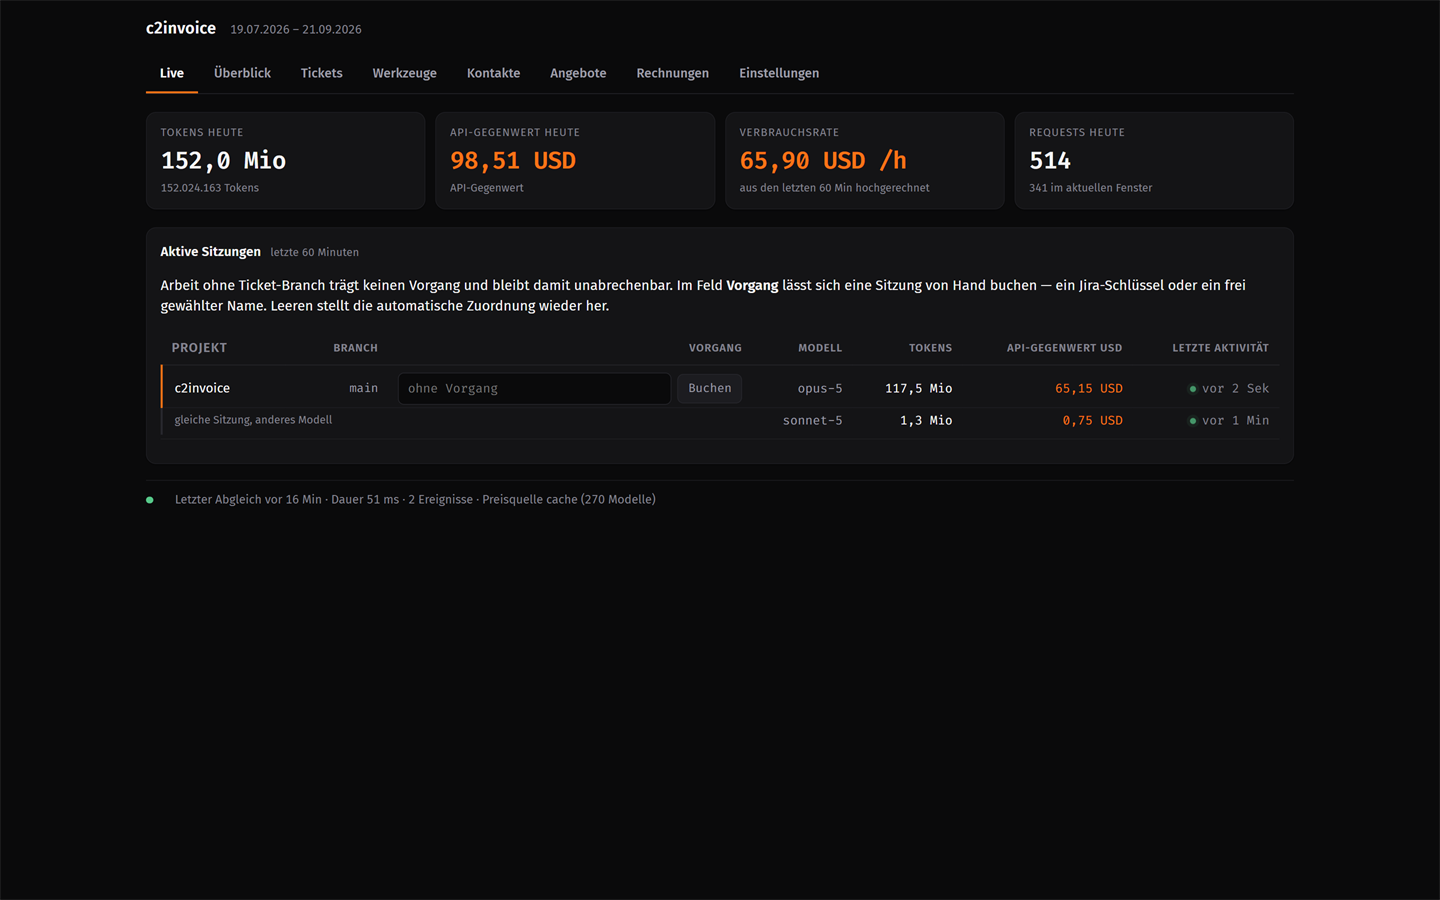
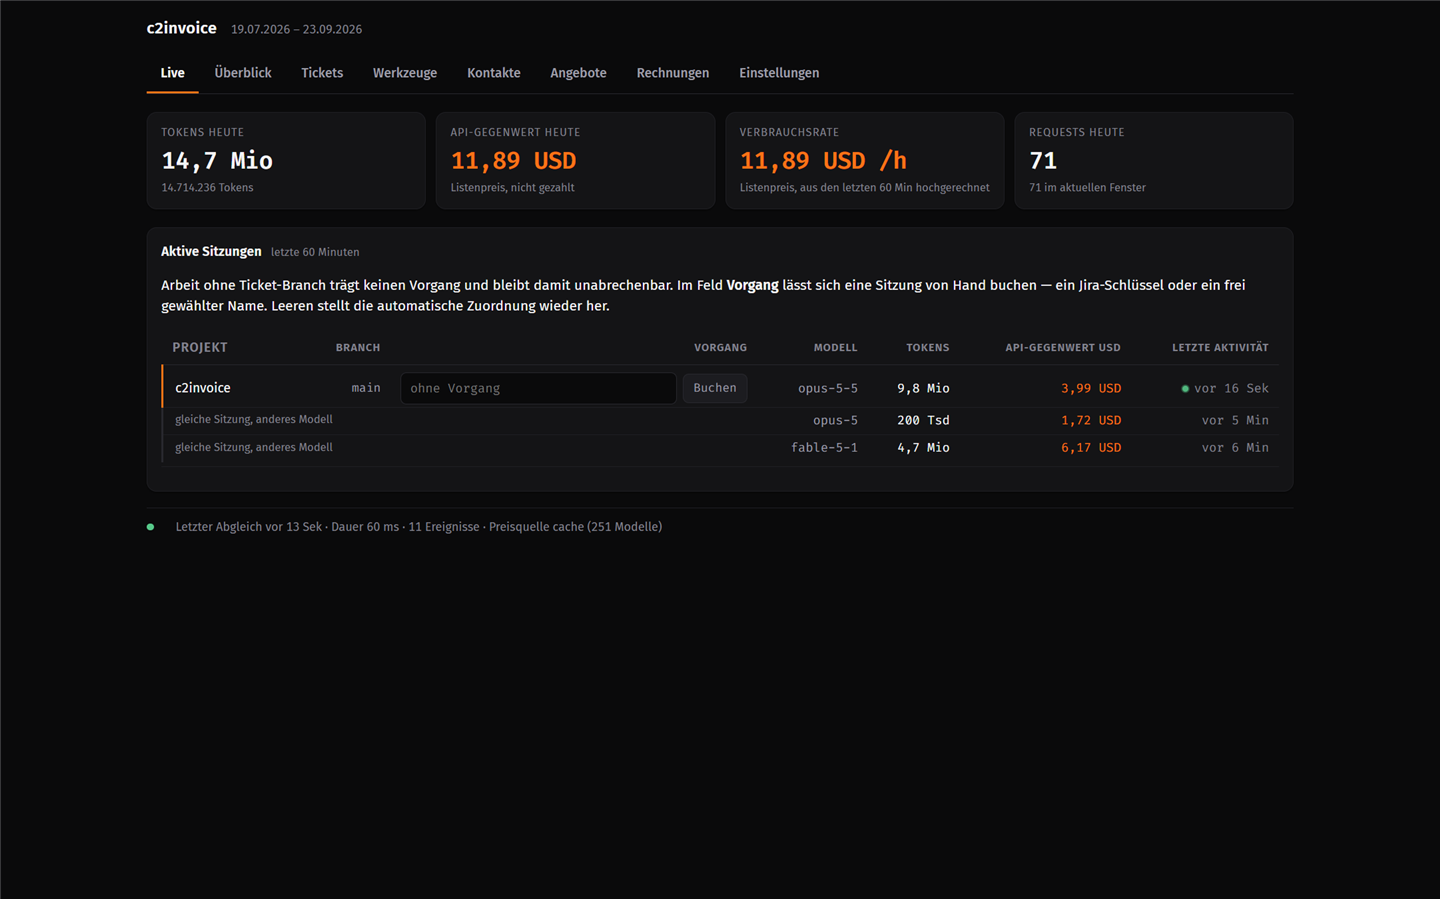
feat: subscription share next to the API equivalent
Readers took the API equivalent for actual cost, the burn rate for an
hourly bill and the tools tab for extra spend. None of these figures
carried its reference in the label.

- Overview shows the subscription share actually paid in the period
- List-price figures are labelled "list price, not paid"
- Tools tab names the total all its bars are shares of
- README: the 82 % are gaps that never reach the invoice, not waiting
- Screenshots retaken with the new labels

diff --git a/public/index.html b/public/index.html
@@ -1028,7 +1028,7 @@
       <div class="kpi usd">
         <div class="label" data-i18n>API-Gegenwert heute</div>
         <div class="value" id="l-kosten">–</div>
-        <div class="hint" data-i18n>API-Gegenwert</div>
+        <div class="hint" data-i18n>Listenpreis, nicht gezahlt</div>
       </div>
       <div class="kpi usd">
         <div class="label" data-i18n>Verbrauchsrate</div>
@@ -1072,7 +1072,14 @@
       <div class="kpi usd">
         <div class="label" data-i18n>API-Gegenwert</div>
         <div class="value" id="s-kosten">–</div>
-        <div class="hint" data-i18n>so viel hätte die API gekostet</div>
+        <div class="hint" data-i18n>Listenpreis, nicht gezahlt</div>
+      </div>
+      <!-- Die echte Gegenzahl. Ohne sie liest sich der API-Gegenwert wie eine
+           Rechnung — genau so wurde er von Aussenstehenden gelesen. -->
+      <div class="kpi">
+        <div class="label" data-i18n>Abo-Anteil im Zeitraum</div>
+        <div class="value" id="s-abo">–</div>
+        <div class="hint" id="s-abo-hint"></div>
       </div>
       <div class="kpi">
         <div class="label" data-i18n>Aktive Stunden</div>
@@ -1195,6 +1202,8 @@
       <p class="w-bruch-text">
         <span class="w-marke" data-i18n>ändert keine Abrechnung</span>
         <span data-i18n>Andere Sicht auf Tokens, die bereits in den Projekt- und Vorgangszahlen stecken — dient nur der Frage, was wie intensiv genutzt wird.</span>
+        <!-- Bezugsgroesse: ohne sie lesen sich die Balken als zusaetzliche Kosten. -->
+        <span id="h-bezug"></span>
       </p>
     </div>
 
@@ -1568,6 +1577,9 @@ EN["Nach Werkzeug"] = "By tool";
 EN["Nach MCP-Server"] = "By MCP server";
 EN["Verteilung nach Modell"] = "Distribution by model";
 EN["Woher die Requests kamen"] = "Where the requests came from";
+EN["Listenpreis, nicht gezahlt"] = "list price, not paid";
+EN["Abo-Anteil im Zeitraum"] = "Subscription share in period";
+EN["Abo-Preis unter Einstellungen eintragen"] = "enter your plan price under Settings";
 EN["welches Werkzeug den Verbrauch erzeugt hat"] = "which tool caused the usage";
 EN["dieselbe Summe, aufgeteilt nach Modell"] = "the same total, split by model";
 EN["dieselbe Summe, aufgeteilt auf die begleiteten Projekte"] = "the same total, split across the projects it accompanied";
@@ -2611,8 +2623,8 @@ function zeichneLive() {
     setz('l-kosten', usd(t.cost_usd));
     setz('l-burn', usd(d.burn_usd_per_hour) + ' /h');
     setz('l-burn-hint', istDE()
-      ? 'aus den letzten ' + num(d.window_minutes) + ' Min hochgerechnet'
-      : 'extrapolated from the last ' + num(d.window_minutes) + ' min');
+      ? 'Listenpreis, aus den letzten ' + num(d.window_minutes) + ' Min hochgerechnet'
+      : 'list price, extrapolated from the last ' + num(d.window_minutes) + ' min');
     setz('l-requests', num(t.requests));
     const w = d.window || {};
     setz('l-window-hint', num(w.requests) + uebersetze(' im aktuellen Fenster'));
@@ -3056,6 +3068,10 @@ function zeichneHerkunft() {
   const erkl = document.getElementById('h-erklaerung');
   if (!h || !mcpZiel) return;
 
+  document.getElementById('h-bezug').textContent = istDE()
+    ? 'Alle Balken sind Anteile an ' + usd(h.gesamt.cost_usd) + ' API-Gegenwert, keine Kosten obendrauf.'
+    : 'Every bar is a share of ' + usd(h.gesamt.cost_usd) + ' API equivalent, not cost on top.';
+
   const anteil = (t) => h.gesamt.total_tokens
     ? nf1.format((t / h.gesamt.total_tokens) * 100) + ' %' : '–';
 
@@ -3310,6 +3326,19 @@ function zeichneUeberblick() {
   setzZahl('s-tokens', s.total_tokens, kurz);
   setz('s-tokens-hint', num(s.total_tokens) + ' Tokens');
   setzZahl('s-kosten', s.cost_usd, usd);
+
+  // Ohne Abopreis bleibt die Kachel leer statt 0 zu zeigen — eine Null saehe
+  // aus wie "kostet nichts".
+  const aboPreis = Number(d.config && d.config.aboPreisMonat) || 0;
+  if (aboPreis > 0) {
+    setzZahl('s-abo', d.abo_kosten, abo);
+    setz('s-abo-hint', istDE()
+      ? 'tatsächlich gezahlt, anteilig aus ' + abo(aboPreis) + ' je Monat'
+      : 'actually paid, share of ' + abo(aboPreis) + ' per month');
+  } else {
+    setz('s-abo', '–');
+    setz('s-abo-hint', uebersetze('Abo-Preis unter Einstellungen eintragen'));
+  }
 
   // Nur die Projektarbeit, nicht der Werkzeugbetrieb. Die Gesamtzeit aus
   // `summary` enthaelt auch die Hintergrundsitzungen der Werkzeuge — die

diff --git a/test/selfcheck.js b/test/selfcheck.js
@@ -398,6 +398,45 @@ function testAboWaehrung() {
   }
 }
 
+// Die Abo-Kachel im Ueberblick ist die echte Gegenzahl zum API-Gegenwert.
+// Zwei Fehler waeren still: volle Monate ergaeben nicht genau den Abopreis,
+// oder ein angeschnittener Monat zaehlte trotzdem voll.
+function testAboKostenZeitraum() {
+  const config = require('../config.json');
+  const merk = config.aboPreisMonat;
+  const db = dbmod.open(':memory:');
+  openDbs.push(db);
+  const ins = db.prepare(`
+    INSERT INTO events (request_id, ts, session_id, project, branch, ticket, model,
+      input_tokens, output_tokens, cache_w_5m, cache_w_1h, cache_read,
+      web_search, cost_usd, is_sidechain, day)
+    VALUES (?,?,?,?,?,?,?,?,?,?,?,?,?,?,?,?)
+  `);
+  const ev = (id, tag, usd) => ins.run(id, tag + 'T10:00:00.000Z', 's1', 'Beispiel - App',
+    'main', null, 'claude-opus-5', 1, 1, 0, 0, 0, 0, usd, 0, tag);
+  ev('a1', '2026-07-05', 30);
+  ev('a2', '2026-07-20', 10);
+  ev('b1', '2026-08-03', 25);
+  ev('b2', '2026-08-25', 75);
+
+  try {
+    config.aboPreisMonat = 100;
+    const voll = metrics.aboKosten(db);
+    assert.ok(Math.abs(voll - 200) < 0.001,
+      'zwei volle Monate muessen genau zweimal den Abopreis ergeben: ' + voll);
+
+    // Ab 10.07.: Juli nur noch 10 von 40 USD = 25, August voll = 100.
+    const teil = metrics.aboKosten(db, { from: '2026-07-10' });
+    assert.ok(Math.abs(teil - 125) < 0.001,
+      'angeschnittener Monat muss anteilig zaehlen: ' + teil);
+
+    config.aboPreisMonat = 0;
+    assert.strictEqual(metrics.aboKosten(db), 0, 'ohne Abopreis keine Abokosten');
+  } finally {
+    config.aboPreisMonat = merk;
+  }
+}
+
 function testOverhead() {
   const config = require('../config.json');
   assert.ok(Array.isArray(config.overheadProjekte) && config.overheadProjekte.length > 0,
@@ -2627,6 +2666,7 @@ async function main() {
   test('Mehrwert rechnet Dollar in Euro um, bevor addiert wird', testMehrwert);
   test('Marge zieht die eigene Arbeitszeit ab, Zielmarge nur als Vergleich', testMargeZiehtEigeneZeitAb);
   test('Abo in Euro wird nicht durch den Dollarkurs gedreht', testAboWaehrung);
+  test('Abokosten im Zeitraum: volle Monate voll, angeschnittene anteilig', testAboKostenZeitraum);
   test('Werkzeug-Overhead wird von Kundenprojekten getrennt', testOverhead);
   test('Werkzeuge werden dem parallel bearbeiteten Projekt zugeordnet', testWerkzeugZuordnung);
   test('Ticket rechnet eigene Arbeit plus begleitende Werkzeuge ab', testTicketGesamtsumme);

diff --git a/metrics.js b/metrics.js
@@ -612,6 +612,15 @@ function aboAnteil(db, costUsd, month) {
   return (costUsd / total) * config.aboPreisMonat;
 }
 
+// Was das Abo im gewaehlten Ausschnitt tatsaechlich gekostet hat — die echte
+// Gegenzahl zum API-Gegenwert, der nur ein Listenpreis ist. Je Monat der
+// Anteil des Ausschnitts am Monatsverbrauch, mal Abopreis: volle Monate ergeben
+// genau den Abopreis, angeschnittene anteilig. Dieselbe Formel wie je Vorgang,
+// deshalb ueber aboAnteil statt eigener Rechnung. Waehrung: aboWaehrung.
+function aboKosten(db, opts = {}) {
+  return byMonth(db, opts).reduce((s, r) => s + aboAnteil(db, r.cost_usd, r.day), 0);
+}
+
 // Der Anteil steht in der Waehrung des Abos, nicht zwangslaeufig in Dollar:
 // Anthropic stellt aus Irland in Euro. Wird ein Euro-Betrag trotzdem durch den
 // Dollarkurs gedreht, sind die Abokosten in der Marge um den Kursfaktor zu
@@ -1090,6 +1099,7 @@ module.exports = {
   mehrwert,
   live,
   aboAnteil,
+  aboKosten,
   filterClause,
   lokalZuordnung, lokalJeGruppe, lokalStundenJeGruppe, lokalBetrag,
 };

diff --git a/server.js b/server.js
@@ -521,6 +521,9 @@ function handle(req, res) {
         // (Jira-Abgleich, Rechnung, Angebot) setzt einen voraus.
         ohne_ticket: metrics.ohneTicket(db, o),
         split: metrics.splitOverhead(db, o),
+        // Echte Kosten neben dem Listenpreis: ohne diese Zahl liest sich der
+        // API-Gegenwert im Ueberblick wie eine Rechnung von Anthropic.
+        abo_kosten: metrics.aboKosten(db, o),
         werkzeuge: metrics.werkzeuge(db, o),
         // Andere Sicht auf dieselben Tokens: woher die Requests der eigenen
         // Sitzungen kamen. Aendert keine Abrechnung, siehe metrics.herkunft().

diff --git a/README.md b/README.md
@@ -24,7 +24,13 @@ session logs → active working time → hourly value → margin → invoice PDF
 
 ## What it looks like
 
-![Overview: spend over time, split by model, and per project with active hours and billable value](docs/overview.png)
+Two cost figures sit side by side on purpose. **API equivalent** is what the
+same usage would have cost at API list prices — a reference, not a bill. **Subscription
+share** is what you actually paid: your plan price, spread over the period.
+The gap between them is usually large, and it is the reason the margin never
+uses the list price.
+
+![Overview: API equivalent at list price next to the subscription share actually paid, active hours, spend over time and split by model](docs/overview.png)
 
 Per job — the margin bar is scaled against your target margin, so "above or
 below what I aimed for" is readable at a glance:
@@ -32,13 +38,17 @@ below what I aimed for" is readable at a glance:
 ![Job detail: token split, work value, contribution margin and margin with a bar scaled against the target](docs/jobs.png)
 
 Where the tokens actually went — MCP servers and skills as ranked bars. Open a
-server to see its individual tools, drawn at the same scale as their parent:
+server to see its individual tools, drawn at the same scale as their parent.
+Every bar is a share of the same total, not cost on top of it; this view
+changes no billing figure:
 
 ![Tools tab: MCP servers as horizontal bars, one expanded to show its individual tools indented below](docs/tools.png)
 
-Live, while you work — sessions can be booked onto a job by hand:
+Live, while you work — sessions can be booked onto a job by hand. The burn
+rate is the list price of the last 60 minutes extrapolated to an hour: a
+snapshot of how intensive the current session is, not an hourly cost:
 
-![Live tab: running sessions with tokens, cost and a field to assign a job](docs/live.png)
+![Live tab: running sessions with tokens, API equivalent and a field to assign a job](docs/live.png)
 
 *Screenshots use anonymised project, job and tool names.*
 
@@ -49,10 +59,11 @@ opcode) answers *how many tokens did I burn and what would the API have cost*.
 None of them answer *what do I put on the invoice*. Between those two questions
 sit four steps:
 
-1. **Usage → working time.** Tokens are not hours. Timestamps in the log
-   reconstruct actual active time once you drop the gaps where the AI waited
-   for you. Measured on real data: a 9.1-hour span was 1.6 hours of work — 82%
-   was waiting.
+1. **Usage → working time.** Tokens are not hours. Only the gaps of up to 5
+   minutes between two requests count as working time. Longer gaps — thinking
+   it over, a meeting, another project, the end of the day — are dropped and
+   never reach the invoice. Measured on real data: of a 9.1-hour span, 1.6
+   hours were work. The other 82% is not billed.
 2. **Working time → revenue.** Hourly rate per client, discounts, and the work
    assigned to the right job.
 3. **Revenue → margin.** The API list price is not your cost. Your subscription
